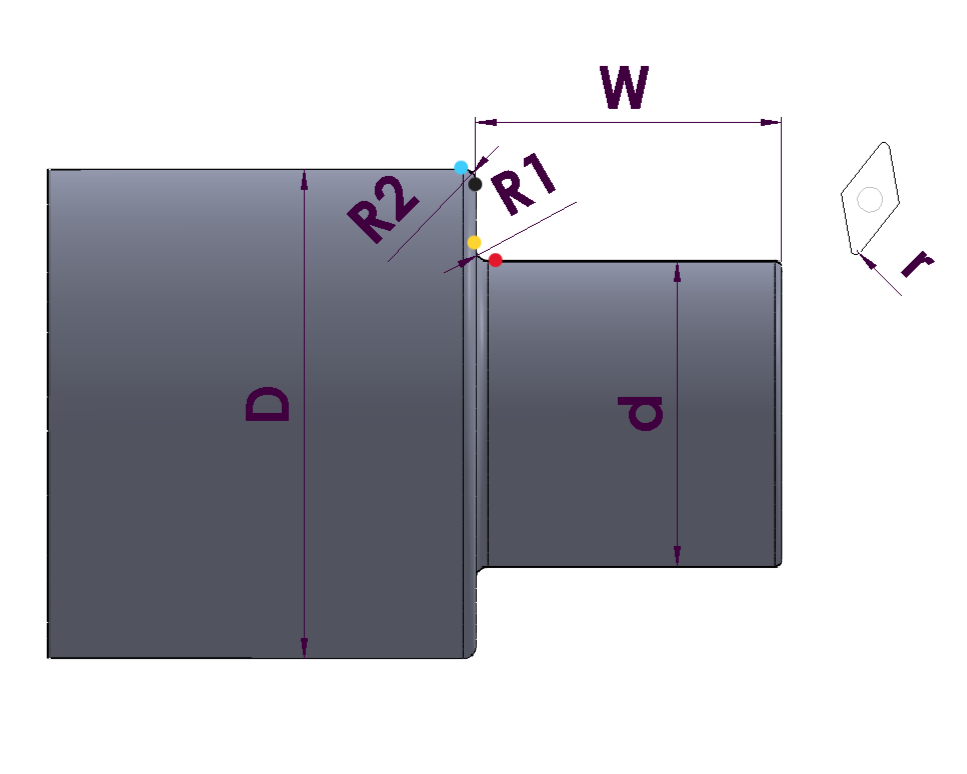
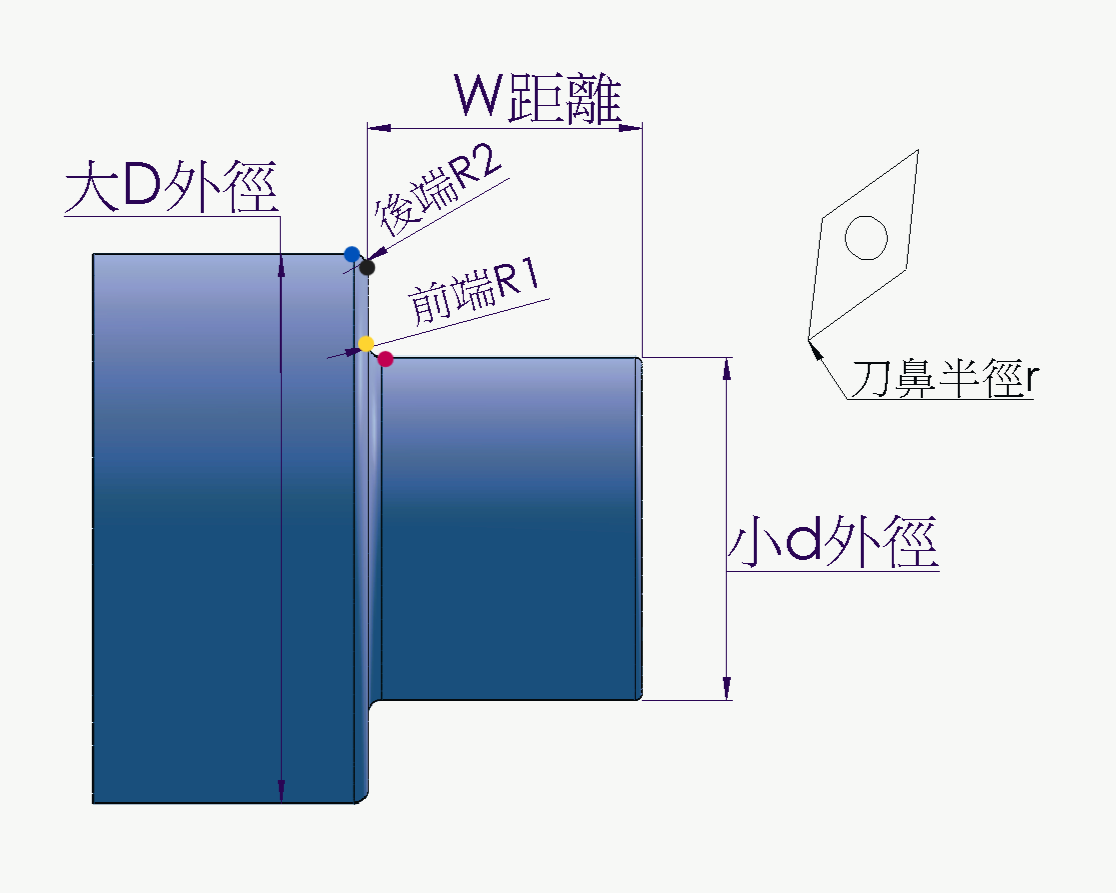
2026.01.16.0

diff --git a/main/templates/v1.html b/main/templates/v1.html
@@ -75,7 +75,7 @@ body {
   width: 98%;
   height: 100%;
   
-  background: url('/public/v1_geometry_base.PNG?v=2025.12.30') center center no-repeat;/* '/public/v1_geometry_base.png?v=5' */
+  background: url('/public/v1_geometry_base.PNG?v=2026.01.16') center center no-repeat;/* '/public/v1_geometry_base.png?v=5' */
   background-size: contain;
   position: relative; /* 供紅圈 absolute 定位 */
 }
@@ -306,15 +306,15 @@ html, body {
 const circle = document.getElementById("highlight");
 const diagram = document.getElementById("diagram");
 const positions = {
-  "前端x軸外徑":    {x:67.5, y: 73.7},      <!-- 外徑D -->
-  "角度":          {x: 68.2, y: 21.5},     <!-- 角度A -->
-  "斜度長":        {x: 81, y: 20},         <!-- 斜度長W -->
-  "刀鼻半徑":      {x: 94.5, y: 22.2},         <!-- 刀鼻半徑r -->
-  "前端R角":       {x: 89.7, y: 35},         <!-- 前端R1 -->
-  "未端R角":       {x: 81.2, y: 26.6},          <!--未端R2 -->
-  "z軸長度":       {x: 70.3, y: 11.2},          <!--z軸長度 -->
-  "斜度x起始點":   {x: 89.8, y: 49.5},           <!--斜度x起始點 -->
-  "R角":           {x: 58.5, y: 22.5},           <!--倒角 R -->
+  "前端x軸外徑":    {x:46.8, y: 78.},      //<!-- 外徑D -->
+  "角度":          {x: 44.2, y: 30.},     //<!-- 角度A -->
+  "斜度長":        {x: 56, y: 27.},         //<!-- 斜度長W -->
+  "刀鼻半徑":      {x: 80.5, y: 32.2},         //<!-- 刀鼻半徑r -->
+  "前端R角":       {x: 67., y: 69.3},         //<!-- 前端R1 -->
+  "未端R角":       {x: 62.2, y: 82.6},          //<!--未端R2 -->
+  "z軸長度":       {x: 44.3, y: 17.2},          //<!--z軸長度 -->
+  "斜度x起始點":   {x: 73., y: 50.5},           //<!--斜度x起始點 -->
+  "R角":           {x: 34.5, y: 26.5},           //<!--倒角 R -->
 };
 
 document.querySelectorAll("input").forEach(inp => {

diff --git a/main/templates/v2.html b/main/templates/v2.html
@@ -75,7 +75,7 @@ body {
   width: 98%;
   height: 100%;
 
-  background: url('/public/v2_geometry_base.PNG?v=2025.12.31') center center no-repeat;/* '/public/v1_geometry_base.png?v=5' */
+  background: url('/public/v2_geometry_base.PNG?v=2026.01.16') center center no-repeat;/* '/public/v1_geometry_base.png?v=5' */
   background-size: contain;
   position: relative; /* 供紅圈 absolute 定位 */
 }
@@ -265,7 +265,7 @@ html, body {
 
   <div class="grid-form">
     <div class="field">
-      <label>Z軸刀鼻起始點 W1：</label>
+      <label>刀點起始位置 W：</label>
       <input name="K3" type="text"  inputmode="decimal" pattern="[0-9]*[.,]?[0-9]*" onfocus="this.select()">
     </div>
     <div class="field">
@@ -288,12 +288,12 @@ html, body {
 const circle = document.getElementById("highlight");
 const diagram = document.getElementById("diagram");
 const positions = {
-  "K1":    {x:66.7, y: 74.2},      <!-- 外徑D -->
-  "K2":          {x: 70.2, y: 22.5},     <!-- 角度A -->
-  "K4":        {x: 79.3, y: 22.5},         <!-- 斜度長W -->
-  "K5":      {x: 92.2, y: 24.3},         <!-- 刀鼻半徑r -->
-  "K3":       {x: 92.8, y: 35.2},          <!--Z軸刀鼻起始點 W1-->
-  "K6":   {x: 86.2, y: 52.5},           <!--斜度x起始點 -->
+  "K1":   {x:46.7, y: 77.2},    //<!-- 外徑D -->
+  "K2":   {x: 44.2, y: 32.5},   //<!-- 角度A -->
+  "K4":   {x: 55., y: 29.},   //<!-- 斜度長W -->
+  "K5":   {x: 78.2, y: 34.3},   //<!-- 刀鼻半徑r -->
+  "K3":   {x: 67., y: 40.5},   //<!--Z軸刀鼻起始點 W1-->
+  "K6":   {x: 65., y: 53.5},   //<!--斜度x起始點 -->
   };
 
 document.querySelectorAll("input").forEach(inp => {

diff --git a/main/templates/v3.html b/main/templates/v3.html
@@ -78,7 +78,7 @@ body {
   width: 98%;
   height: 100%;
 
-  background: url('/public/v3_geometry_base.PNG') center center no-repeat;/* '/public/v1_geometry_base.png?v=5' */
+  background: url('/public/v3_geometry_base.PNG?v=2026.01.16') center center no-repeat;/* '/public/v1_geometry_base.png?v=5' */
   background-size: contain;
   position: relative; /* 供紅圈 absolute 定位 */
 }
@@ -283,12 +283,12 @@ html, body {
 const circle = document.getElementById("highlight");
 const diagram = document.getElementById("diagram");
 const positions = {
-  "K1_A":    {x:66.7, y: 53.2},      <!-- 小d外徑 -->
-  "K2_A":          {x: 64.5, y: 12.5},     <!-- W距離 -->
-  "K3_A":        {x: 54.3, y: 25.5},         <!-- 前端R1 -->
-  "K1_B":      {x: 27.5, y: 52.3},         <!-- 大D外徑 -->
-  "K2_B":       {x: 39.5, y: 27.5},          <!--後端R2-->
-  "K4":   {x: 95., y: 35.},           <!--刀鼻半徑r -->
+  "K1_A":      {x:65., y: 60.2},    //<!-- 小d外徑 -->
+  "K2_A":      {x: 46.5, y: 12.5},   //<!-- W距離 -->
+  "K3_A":      {x: 42.1, y: 33.2},   //<!-- 前端R1 -->
+  "K1_B":      {x: 25.5, y: 57.},   //<!-- 大D外徑 -->
+  "K2_B":      {x: 39.5, y: 22.},   //<!--後端R2-->
+  "K4":        {x: 73., y: 38.},     //<!--刀鼻半徑r -->
   };
 
 document.querySelectorAll("input").forEach(inp => {

diff --git a/main/templates/v4.html b/main/templates/v4.html
@@ -318,13 +318,13 @@ const circle = document.getElementById("highlight");
 const diagram = document.getElementById("diagram");
 const positions = {
   "斜度x起始點":   {x: 91.3, y: 54.5},
-  "前端x軸外徑":    {x:62., y: 54.5},      <!-- 外徑D -->
-  "角度":          {x: 57.8, y: 17.5},     <!-- 角度A -->
-  "斜度長":        {x: 68., y: 13.},         <!-- 斜度長W -->
-  "前端R角":       {x: 76.5, y: 30.2},         <!-- 前端R1 -->
-  "未端R角":       {x: 67.8, y: 25.},          <!--未端R2 -->
-  "z軸長度":       {x: 57.2, y: 7.3},          <!--z軸長度 -->
-  "R角":           {x: 48.7, y: 22.5},           <!--倒角 R -->
+  "前端x軸外徑":    {x:62., y: 54.5},      //<!-- 外徑D -->
+  "角度":          {x: 57.8, y: 17.5},     //<!-- 角度A -->
+  "斜度長":        {x: 68., y: 13.},         //<!-- 斜度長W -->
+  "前端R角":       {x: 76.5, y: 30.2},         //<!-- 前端R1 -->
+  "未端R角":       {x: 67.8, y: 25.},          //<!--未端R2 -->
+  "z軸長度":       {x: 57.2, y: 7.3},          //<!--z軸長度 -->
+  "R角":           {x: 48.7, y: 22.5},           //<!--倒角 R -->
   "斜度角":         {x: 28.6, y: 13.2}, 
   "終點x軸外徑":    {x: 20.3, y: 17.},
   "刀鼻半徑":      {x: 83.5, y: 28.}, 

diff --git a/main/templates/category_a.html b/main/templates/category_a.html
@@ -122,19 +122,19 @@ h2 {
 
         <!-- A-1 -->
         <a class="card" href="/v1?module=a1">
-            <img src="/public/v1_geometry_base.PNG" alt="A-1">
+            <img src="/public/v1_geometry_base.PNG?v=2026.01.16" alt="A-1">
             <p>A-1</p>
         </a>
 
         <!-- A-2  -->
         <a class="card" href="/v2">
-            <img src="/public/v2_geometry_base.PNG?v=2025.12.31" alt="A-2">
+            <img src="/public/v2_geometry_base.PNG?v=2026.01.16" alt="A-2">
             <p>A-2</p>
         </a>
 
         <!-- A-3 -->
         <a class="card" href="/v3">
-            <img src="/public/v3_geometry_base.PNG" alt="A-3">
+            <img src="/public/v3_geometry_base.PNG?v=2026.01.16" alt="A-3">
             <p>A-3</p>
         </a>
        
@@ -146,7 +146,7 @@ h2 {
        
         <!-- A-5 -->
         <a class="card" href="/v5">
-            <img src="/public/v5_geometry_base.PNG" alt="A-5">
+            <img src="/public/v5_geometry_base.PNG?v=2026.01.16" alt="A-5">
              <p>A-5</p>
         </a>     
     </div>

diff --git a/main/templates/v5.html b/main/templates/v5.html
@@ -75,7 +75,7 @@ body {
   width: 98%;
   height: 100%;
   
-  background: url('/public/v5_geometry_base.PNG') center center no-repeat;
+  background: url('/public/v5_geometry_base.PNG?v=2026.01.16') center center no-repeat;
   background-size: contain;
   position: relative; /* 供紅圈 absolute 定位 */
 }

diff --git a/main/v5_master_solver.py b/main/v5_master_solver.py
@@ -84,33 +84,13 @@ def _render_output_v5(results: dict) -> str:
     html = ""
     html += "=== 🧩 刀點座標總表 ===\n\n"
 
-    # ===== 前端 R 角 =====
+    
     html += f"G1 X{g(A,'B51'):.3f} F0.1 🔴\n"
-    html += f"G1 Z{g(A,'B52'):.3f} F0.1🔴\n\n"
-
-    
-    #html += f"前端R角刀鼻補正    \n\n"
-
-    # ===== 未端 R 角 =====
+    html += f"G1 Z{g(A,'B52'):.3f} F0.1 🔴\n"
     html += f"G1 X{g(B,'B55'):.3f} Z{g(B,'B56'):.3f} F0.1🟡\n"
-    html += f"G1 X{g(B,'B57'):.3f} Z{g(B,'B58'):.3f} F0.1🟡\n"
-    #html += f"未端R角起始點      \n\n"
-
-    
-  
-
-    # ===== 外徑圓弧補正 =====
-    html += f"G1  Z{g(C,'B52'):.3f} F0.1⚫\n\n"
-    html += f"G02 X{g(C,'B54'):.3f} Z{g(C,'B53'):.3f} R{g(C,'B55'):.3f} F0.1⚫\n"
-    #html += f"圓孤後z座標:       \n"
-    #html += f"刀鼻補正後圓孤:    \n\n"
-
-   # ===== 外徑圓弧補正 =====
-
-    
-    #html += f"圓孤後z座標:       \n"
-    #html += f"刀鼻補正後圓孤:    \n\n"
-
+    html += f"G02 X{g(B,'B57'):.3f} Z{g(B,'B58'):.3f} R{g(B,'B59'):.3f} F0.1🟡\n"
+    html += f"G1 Z{g(C,'B52'):.3f} F0.1⚫\n"
+    html += f"G02 X{g(C,'B54'):.3f} Z{g(C,'B53'):.3f} R{g(C,'B55'):.3f} F0.1⚫\n\n"
 
     html += "=== ⭐ 幾何運算完成 ==="
 

diff --git a/main/formulas/v5/module_b_outer_perp_R_v5.py b/main/formulas/v5/module_b_outer_perp_R_v5.py
@@ -65,7 +65,7 @@ def solve_b(data):
     B57 = (B19-E4)*2
     B20 = H8                            # 小徑延伸 Z
     B58 = B20-E4
-
+    B59 = B9-E4
     def _fmt(x):
      # 例如固定顯示到小數點兩位
         return f"{x:.3f}"
@@ -81,6 +81,7 @@ def solve_b(data):
          "B56": B56,
          "B57": B57,
          "B58": B58,
+         "B59": B59,
      }
 
     text_lines = [
@@ -93,6 +94,7 @@ def solve_b(data):
         f"B56 = {_fmt(B56)}",
         f"B57 = {_fmt(B57)}",
         f"B58 = {_fmt(B58)}",
+        f"B59 = {_fmt(B59)}",
     ]
 
     return {
